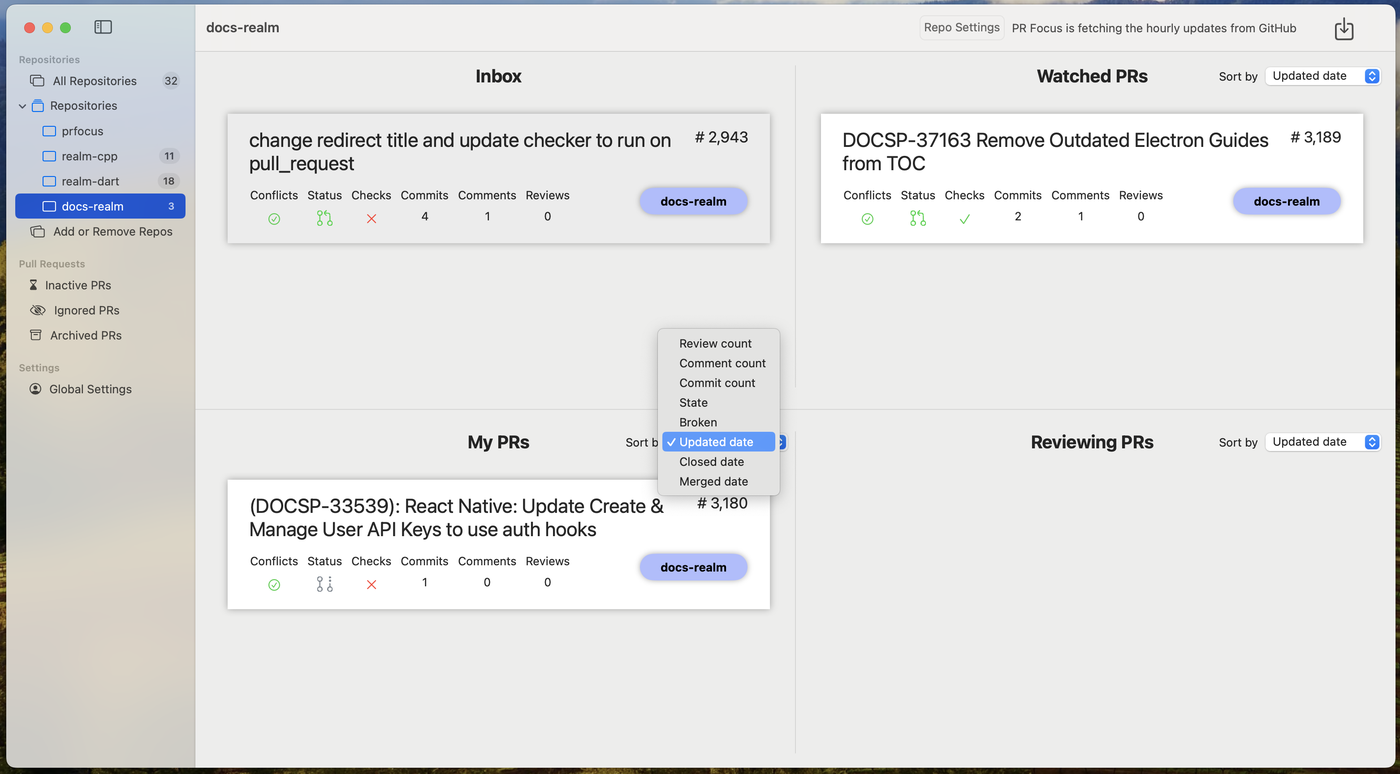
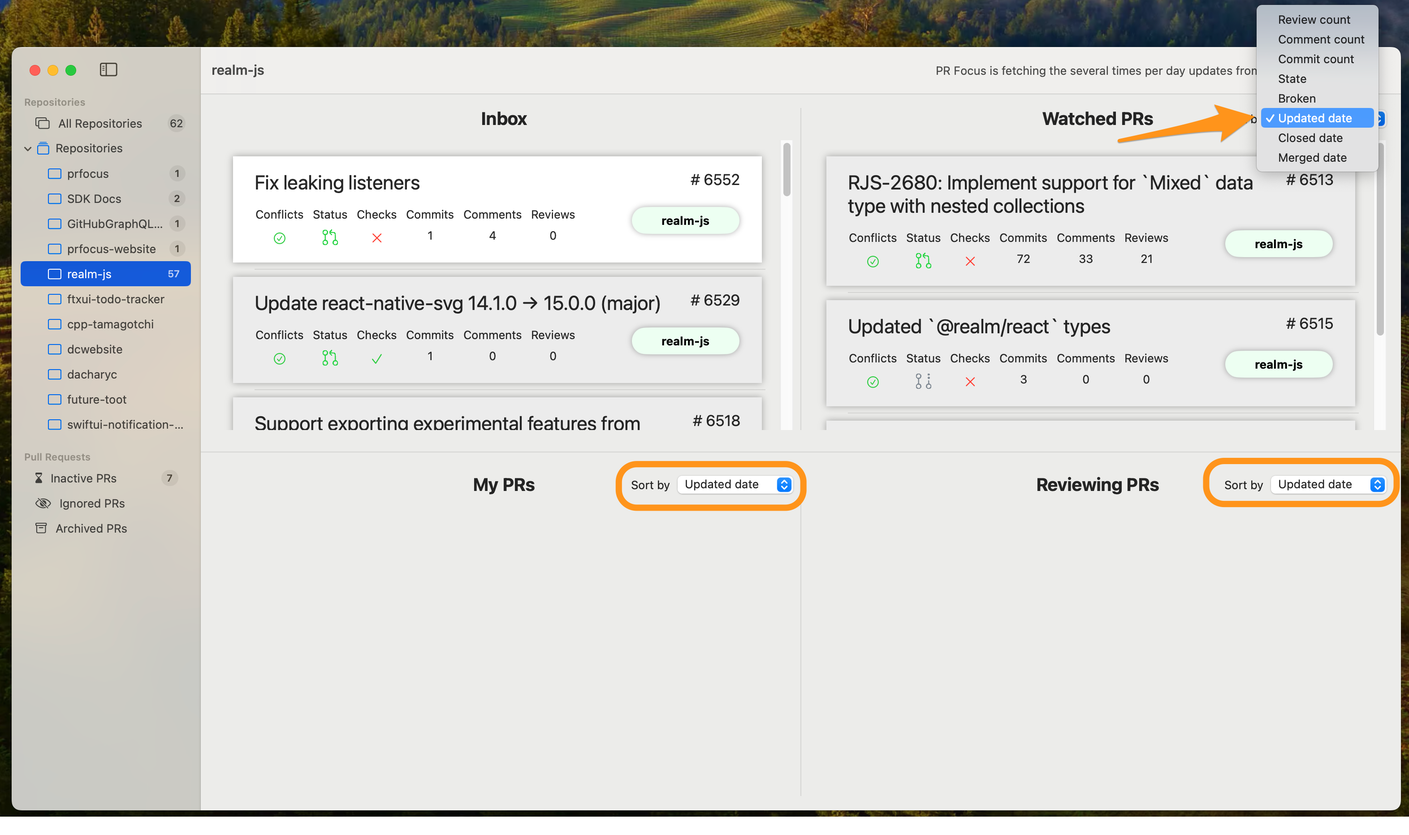
Update screenshots and add new menus for v0.5

diff --git a/content/en/docs/settings/_index.md b/content/en/docs/settings/_index.md
@@ -7,72 +7,23 @@ description: >
   Configure PR Focus Settings
 ---
 
-PR Focus has a handful of global settings you can configure from the **Global Settings**.
+PR Focus has a few global settings you can configure from the **Settings** menu option in the **PR Focus** menu.
 
-A future version of PR Focus will move these settings into **Preferences**.
+![Screenshot showing the "Settings" menu option in the **PR Focus** menu](/images/settings-menu-option.png)
+
+Selecting this option opens a window where you can customize global default settings for PR Focus for:
+
+- Checkboxes to show Reviewing or Assignee columns
+- An option to select how often to fetch updates from GitHub
+- Options to customize how long to wait before moving PRs from the Repository Dashboard to the Inactive or Archived dashboards
 
 ![Screenshot showing configurable settings in Global Settings](/images/global-settings.png)
 
-## API Key
-
-You can change the API Key that PR Focus uses to make API calls to GitHub.
-
-Press the **Edit API Key** button to provide a new API access token.
-
-For details about generating a GitHub access token, refer to the GitHub Authentication documentation page [Manage Personal Access Tokens](https://docs.github.com/en/authentication/keeping-your-account-and-data-secure/managing-your-personal-access-tokens).
-
-GitHub provides two types of access tokens:
-
-- A fine-grained access token (currently in beta) which provides more precise control over what the bearer can access
-- A classic access token with less precise control over what the bearer can access
-
-The required permissions for PR Focus to fetch pull request data vary depending on which type of access token you create. If you are not seeing pull requests after adding a repository to PR Focus, verify that your API access token has the appropriate permissions for the repository.
-
-### Fine-Grained Access Token Permissions
-
-GitHub's fine-grained access token provides the most precise control over what a user can access. As a result, PR Focus needs a number of permissions to get all the data it needs. PR Focus requires:
-
-Repository permissions
-- Actions: Read-only
-- Commit statuses: Read-only
-- Contents: Read-only
-- Deployments: Read-only
-- Issues: Read-only
-- Metadata: Read-only
-- Pull-Requests: Read-only
-- Workflows: Read and write (PR Focus does not need write permission, but GitHub does not provide read-only access for Workflows, so Read and write is the only option)
-
-Account permissions
-- Profile: Read and write (PR Focus does not need write permission, but GitHub does not provide read-only access for the user Profile, so Read and write is the only option)
-
-### Classic Access Token Permissions
-
-If you're using a Classic access token, it must have the following permissions:
-
-- `repo` read permissions for any repository you want to watch in PR Focus. 
-- `user` read permissions to get your username and avatar for use in the app.
-
-If your organization uses SAML single sign-on (SSO), and you use a classic personal access token, you must configure SSO for your personal access token after you create it. For more details, refer to the GitHub Authentication documentation page [Authorizing a personal access token for use with SAML single sign-on](https://docs.github.com/en/enterprise-cloud@latest/authentication/authenticating-with-saml-single-sign-on/authorizing-a-personal-access-token-for-use-with-saml-single-sign-on).
-
-#### How does PR Focus store and transmit the access token?
-
-When you enter the access token, PR Focus saves it securely to your [macOS Apple Keychain](https://support.apple.com/guide/mac-help/use-keychains-to-store-passwords-mchlf375f392/mac). PR Focus does not store your access token directly in the app code or otherwise transmit it except to make API calls to GitHub. If you ever want to remove your access token from Keychain, you can find it in the Keychain Access app. 
-
-Note that if you remove your access token from Keychain, PR Focus can no longer make API calls to GitHub. This means PR Focus will no longer be able to fetch PR updates or new PRs.
-
-#### Why does PR Focus need user read permissions?
-
-When you provide an access token during setup, if your access token has the appropriate permissions, PR Focus uses it to create a User Profile in the app for you. It reads your GitHub username and avatar and displays it in the **Global Settings** in the app. PR Focus uses this information to determine whether a PR was made by you, and whether you are a reviewer or assigned to a PR.
-
-If your access token doesn't have the appropriate permissions, PR Focus can't fetch your user profile and can't proceed with the initial user setup.
-
-PR Focus does not currently support having multiple GitHub user profiles. If this is something you need, please file a feature request.
-
-## Dashboard Views
+## Customize Lists in Dashboard Views
 
 You can customize the lists displayed in your Repository Dashboard and All Repositories Dashboard. Check or uncheck the `Show Assigned PRs` or `Show Reviewing PRs` checkboxes to show or hide those lists in your dashboards. 
 
-Currently, this is a global setting that defaults to showing the **Reviewing PRs** list and hiding the **Assigned PRs** list.
+This is a global setting that defaults to showing the **Reviewing PRs** list and hiding the **Assigned PRs** list.
 
 You can override these global settings on a per-repository basis. For example, if you watch many repositories in which you are a reviewer, but only one in which you may be an assignee, you may want to leave the global **Assigned PRs** setting unchecked, and specify it only for the repository where you need this information.
 
@@ -80,7 +31,7 @@ For more information about customizing settings for a repository, refer to [Repo
 
 ## Days until inactive/archive
 
-The `Days until inactive` and `Days until archive` settings are used to determine the time interval for when PR Focus should move PRs into the [Inactive PRs]({{< ref "docs/pull-requests/inactive-prs.md" >}}) or [Archived PRs]({{< ref "docs/pull-requests/archived-prs.md" >}}) dashboards.
+The `Days Until Inactive` and `Days Until Archive` settings are used to determine the time interval for when PR Focus should move PRs into the [Inactive PRs]({{< ref "docs/pull-requests/inactive-prs.md" >}}) or [Archived PRs]({{< ref "docs/pull-requests/archived-prs.md" >}}) dashboards.
 
 The global settings default to 30 days until inactive and 10 days until archive.
 

diff --git a/content/en/docs/api-key/_index.md b/content/en/docs/api-key/_index.md
@@ -1,0 +1,75 @@
+---
+title: "GitHub API Key"
+linkTitle: "GitHub API Key"
+weight: 6
+date: 2024-03-17
+description: >
+  Configure the GitHub API Key
+---
+
+PR Focus uses a GitHub API key to make calls to GitHub. You can view and update the GitHub API key from the **Manage API Key** menu option in the **PR Focus** menu.
+
+![Screenshot showing the "Settings" menu option in the **PR Focus** menu](/images/manage-api-key-menu-option.png)
+
+Selecting this option opens a window where you can view details about your GitHub API Key, or update it.
+
+![Screenshot showing the Manage API Key window](/images/manage-api-key.png)
+
+When your API key expires, PR Focus can no longer fetch updates. PR Focus warns you when the API key is close to expiring or if it has expired. You can view the expiration date of the current API key anytime from this window.
+
+## API Key
+
+You can change the API key that PR Focus uses to make API calls to GitHub.
+
+Press the **Edit API Key** button to provide a new API access token.
+
+For details about generating a GitHub access token, refer to the GitHub Authentication documentation page [Manage Personal Access Tokens](https://docs.github.com/en/authentication/keeping-your-account-and-data-secure/managing-your-personal-access-tokens).
+
+GitHub provides two types of access tokens:
+
+- A fine-grained access token (currently in beta) which provides more precise control over what the bearer can access
+- A classic access token with less precise control over what the bearer can access
+
+The required permissions for PR Focus to fetch pull request data vary depending on which type of access token you create. If you are not seeing pull requests after adding a repository to PR Focus, verify that your API access token has the appropriate permissions for the repository.
+
+### Fine-Grained Access Token Permissions
+
+GitHub's fine-grained access token provides the most precise control over what a user can access. As a result, PR Focus needs a number of permissions to get all the data it needs. PR Focus requires:
+
+Repository permissions
+- Actions: Read-only
+- Commit statuses: Read-only
+- Contents: Read-only
+- Deployments: Read-only
+- Issues: Read-only
+- Metadata: Read-only
+- Pull-Requests: Read-only
+- Workflows: Read and write (PR Focus does not need write permission, but GitHub does not provide read-only access for Workflows, so Read and write is the only option)
+
+Account permissions
+- Profile: Read and write (PR Focus does not need write permission, but GitHub does not provide read-only access for the user Profile, so Read and write is the only option)
+
+### Classic Access Token Permissions
+
+If you're using a Classic access token, it must have the following permissions:
+
+- `repo` read permissions for any repository you want to watch in PR Focus. 
+- `user` read permissions to get your username and avatar for use in the app.
+
+### Authorize for SSO
+
+If your organization uses SAML single sign-on (SSO), you must configure SSO for your personal access token after you create it. For more details, refer to the GitHub Authentication documentation page [Authorizing a personal access token for use with SAML single sign-on](https://docs.github.com/en/enterprise-cloud@latest/authentication/authenticating-with-saml-single-sign-on/authorizing-a-personal-access-token-for-use-with-saml-single-sign-on).
+
+## How does PR Focus store and transmit the access token?
+
+When you enter the access token, PR Focus saves it securely to your [macOS Apple Keychain](https://support.apple.com/guide/mac-help/use-keychains-to-store-passwords-mchlf375f392/mac). PR Focus does not store your access token directly in the app code or otherwise transmit it except to make API calls to GitHub. If you ever want to remove your access token from Keychain, you can find it in the Keychain Access app. 
+
+Note that if you remove your access token from Keychain, PR Focus can no longer make API calls to GitHub. This means PR Focus will no longer be able to fetch PR updates or new PRs.
+
+## Why does PR Focus need user read permissions?
+
+When you provide an access token during setup, if your access token has the appropriate permissions, PR Focus uses it to create a User Profile in the app for you. It reads your GitHub username and avatar and displays it in this window. PR Focus uses this information to determine whether a PR was made by you, and whether you are a reviewer or assigned to a PR.
+
+If your access token doesn't have the appropriate permissions, PR Focus can't fetch your user profile and can't proceed with the initial user setup.
+
+PR Focus does not currently support having multiple GitHub user profiles. If this is something you need, please file a feature request.

diff --git a/content/en/docs/repositories/manage-repository.md b/content/en/docs/repositories/manage-repository.md
@@ -6,11 +6,20 @@ description: >
   Update repository metadata in PR Focus, or stop watching the repository.
 ---
 
-While you're viewing a Repository Dashboard, you'll see a **Repo Settings** button in the toolbar.
+To update the settings for repositories you're watching, or to delete repositories from PR Focus, select the **Manage Repositories** option in the **Repositories** menu.
 
-![Screenshot showing the "Repo Settings" button](/images/repo-settings-button.png)
+![Screenshot showing the Manage Repositories menu option](/images/manage-repositories-menu-option.png)
 
-Press this button to customize the name or label color, or customize repository settings. This takes you to the Repository Details view.
+When you select this option, you open the **Manage Repositories** window. This window provides:
+
+- A list of all the repositories you're watching
+- Links to navigate directly to the repositories in GitHub
+- Buttons to update the settings for each repository
+- Buttons to delete repositories from PR Focus
+
+![Screenshot showing the Manage Repositories window with links to view repositories on GitHub, and buttons to update settings or delete the repositories](/images/manage-repositories.png)
+
+When you press the **Update Settings** option, you open the repository settings window for that repository.
 
 ![Screenshot showing the "Repository Details" view with metadata and customization options](/images/repo-details-view.png)
 
@@ -29,7 +38,7 @@ You can customize these repository details:
 - Provide a custom, human-friendly name for the repository, which replaces the default Repo Name in the PR Focus sidebar and on the repository label in the PR Summary
 - Select a repository label color to make it easier to distinguish the repository that a PR belongs to when viewing the **All Repositories** dashboard
 
-In this example, the `docs-realm` repository name has been replaced by the custom `Realm SDK docs` name, and a specific color has been chosen for the repository label.
+In the example below, the `realm-kotlin` repository name has been replaced by the custom `Realm Kotlin` name, and a specific color has been chosen for the repository label.
 
 ![Screenshot showing a PR Summary](/images/pr-summary.png)
 
@@ -49,3 +58,13 @@ In this view, you can also customize the settings for a repository. Settings you
 When you press the **Save Repo Settings** button, PR Focus saves all of the values in the "Customize Repository Settings" section of the view as custom repository settings. These settings apply only to this repository, and override the global default settings for this repo.
 
 If you would instead like to customize the global default settings, refer to [Settings]({{< ref "docs/settings/_index.md" >}})
+
+### GitHub Fetch Frequency
+
+The GitHub API rate-limits API access tokens to 5,000 calls per hour. 
+
+PR Focus makes a call to fetch the list of open PRs in a repository, and then makes indvidiual calls to get the details of each pull request it needs to update.
+
+If you are watching many repositories, or if the repositories you watch have many open PRs, the fetch job can be quite lengthy and can consume hundreds of API calls per run. For this reason, we recommend not fetching PR updates too often. The default fetch interval is hourly. The most frequent fetch interval that PR Focus provides for its automated jobs is "several times per hour." You can manually fetch updates at any time by pressing the **Fetch PRs** button, but if the rate limit has been exceeded, you won't see any updates to your pull requests in PR Focus.
+
+*Note: Currently, PR Focus has minimal handling for exceeding the rate limit. If you don't see updates to PRs you expect, check the PR Focus Logs to see if there are any error messages related to exceeding the rate limit. You may want to stagger the fetch interval across repositories if you encounter issues with the GitHub rate limit.*

diff --git a/content/en/docs/getting-started/_index.md b/content/en/docs/getting-started/_index.md
@@ -37,49 +37,11 @@ GitHub provides two types of access tokens:
 - A fine-grained access token (currently in beta) which provides more precise control over what the bearer can access
 - A classic access token with less precise control over what the bearer can access
 
-The required permissions for PR Focus to fetch pull request data vary depending on which type of access token you create. If you are not seeing pull requests after adding a repository to PR Focus, verify that your API access token has the appropriate permissions for the repository.
+The required permissions for PR Focus to fetch pull request data vary depending on which type of access token you create. 
 
-#### Fine-Grained Access Token Permissions
+For more details about the required permissions for each type of access token, refer to [GitHub API Key]({{< ref "docs/api-key/_index.md" >}})
 
-GitHub's fine-grained access token provides the most precise control over what a user can access. As a result, PR Focus needs a number of permissions to get all the data it needs. PR Focus requires:
-
-Repository permissions
-- Actions: Read-only
-- Commit statuses: Read-only
-- Contents: Read-only
-- Deployments: Read-only
-- Issues: Read-only
-- Metadata: Read-only
-- Pull-Requests: Read-only
-- Workflows: Read and write (PR Focus does not need write permission, but GitHub does not provide read-only access for Workflows, so Read and write is the only option)
-
-Account permissions
-- Profile: Read and write (PR Focus does not need write permission, but GitHub does not provide read-only access for the user Profile, so Read and write is the only option)
-
-#### Classic Access Token Permissions
-
-If you're using a Classic access token, it must have the following permissions:
-
-- `repo` read permissions for any repository you want to watch in PR Focus. 
-- `user` read permissions to get your username and avatar for use in the app.
-
-If your organization uses SAML single sign-on (SSO), and you use a classic personal access token, you must configure SSO for your personal access token after you create it. For more details, refer to the GitHub Authentication documentation page [Authorizing a personal access token for use with SAML single sign-on](https://docs.github.com/en/enterprise-cloud@latest/authentication/authenticating-with-saml-single-sign-on/authorizing-a-personal-access-token-for-use-with-saml-single-sign-on).
-
-#### How does PR Focus store and transmit the access token?
-
-When you enter the access token, PR Focus saves it securely to your [macOS Apple Keychain](https://support.apple.com/guide/mac-help/use-keychains-to-store-passwords-mchlf375f392/mac). PR Focus does not store your access token directly in the app code or otherwise transmit it except to make API calls to GitHub. If you ever want to remove your access token from Keychain, you can find it in the Keychain Access app. 
-
-Note that if you remove your access token from Keychain, PR Focus can no longer make API calls to GitHub. This means PR Focus will no longer be able to fetch PR updates or new PRs.
-
-#### Updating the access token
-
-You can update your access token later from the PR Focus **Global Settings**.
-
-#### Why does PR Focus need user read permissions?
-
-When you provide an access token during setup, if your access token has the appropriate permissions, PR Focus uses it to create a User Profile in the app for you. It reads your GitHub username and avatar and displays it in the **Global Settings** in the app. PR Focus uses this information to determine whether a PR was made by you, and whether you are a reviewer or assigned to a PR.
-
-If your access token doesn't have the appropriate permissions, PR Focus can't fetch your user profile and can't proceed with the initial user setup.
+You can update your access token later from the **PR Focus** menu with the **Manage API Key** option.
 
 ### Add a Repository
 

diff --git a/content/en/docs/repositories/view-repository.md b/content/en/docs/repositories/view-repository.md
@@ -13,7 +13,7 @@ When you select a repository in the sidebar, this opens the Repository Dashboard
 - View the details of a specific PR in PR Focus
 - Manage details about the repository, or stop watching it
 
-Or if you want to view a rollup of all the PRs you're watching in one view, you can select the **All Repositories** view, which aggregates the individual repository dashboards into an aggregate view.
+Or if you want to view a rollup of all the PRs you're watching in one view, you can select the **All Repositories** view, which displays all the pull requests from the individual repository dashboards in an aggregate view.
 
 ## The Repository Dashboard
 
@@ -24,7 +24,7 @@ The Repository Dashboard breaks down into different lists of pull requests. By d
 - My PRs: a list of your PRs in the repository
 - Reviewing PRs: a list of PRs where you're a reviewer
 
-Optionally, if your workflow involves assigning PRs, you can check the setting in the **User Profile** to *Show Assigned PRs*. This adds a fifth list of PRs that are assigned to you.
+Optionally, if your workflow involves assigning PRs, you can check the setting in the **Settings** or in the repository's **Update Settings** to *Show Assigned PRs*. This adds a fifth list of PRs that are assigned to you.
 
 ![Screenshot showing the Repository Dashboard](/images/repository-dashboard.png)
 
@@ -232,21 +232,3 @@ When you press the **Fetch PRs** button, this kicks off a few jobs:
   - If the PR is merged or closed in PR Focus and not listed as "open" on the remote repository, PR Focus does not fetch updates for it.
   - While fetching updates, PR Focus looks for any new commits, comments, reviews, or status checks, adds them to the PR details, and increments the PR summary counts.
   - If PR updates include adding you as an `assignee` or `requestedReviewer`, PR Focus moves the PR to the appropriate list in your dashboard.
-
-### GitHub API Calls
-
-The GitHub API rate-limits API access tokens to 5,000 calls per hour. 
-
-PR Focus makes a call to fetch the list of open PRs in a repository, and then makes indvidiual calls to get the details or each pull request it needs to update.
-
-If you are watching many repositories, or if the repositories you watch have many open PRs, the fetch job can be quite lengthy and can consume hundreds of API calls per run. For this reason, we recommend not fetching PR updates too often. The default fetch interval is hourly. The most frequent fetch interval that PR Focus provides for its automated jobs is "several times per hour." You can manually fetch updates at any time by pressing the **Fetch PRs** button, but if the rate limit has been exceeded, you won't see any updates to your pull requests in PR Focus.
-
-*Note: As of v0.2.x, PR Focus does not handle exceeding the rate limit with any sort of timeout or backoff. It also does not currently surface this failure to users. A future version of PR Focus will gracefully handle exceeding the rate limit, and will provide information to users about these possible errors.*
-
-## Manage Repository Details
-
-While you're viewing a Repository Dashboard, you'll see a **Repo Settings** button in the toolbar.
-
-![Screenshot showing the "Repo Settings" button](/images/repo-settings-button.png)
-
-Press this button to customize the name or label color, or customize repository settings. For more information, refer to [Repository Settings]({{< ref "docs/repositories/manage-repository.md" >}})

diff --git a/content/en/docs/repositories/add-repository.md b/content/en/docs/repositories/add-repository.md
@@ -6,41 +6,35 @@ description: >
   Add repositories to watch for new and updated PRs.
 ---
 
-You can add a repository to PR Focus using the **Add or Remove Repos** button in the sidebar.
+You can add a repository to PR Focus using the **Add Repositories** option in the **Repositories** menu.
 
-![Screenshot showing the "Add or Remove Repos" button](/images/add-remove-repos-button.png)
+![Screenshot showing the "Add Repositories" menu option](/images/add-repositories.png)
 
-This opens the pane where you can manage the list of repositories you're watching.
+This opens a window where you can add one or many repositories.
 
 ## Add One Repository
 
-Press the **Add Repo** button to add a new repository to PR Focus.
-
-This opens a pane asking for details about the repository you want to add. 
+By default, when you open the **Add Repositories** window, you see the option to add a single repository.
 
 Enter a GitHub URL for the repository you want to add, similar to `https://github.com/dacharyc/prfocus-website`.
 
 You can also select a color for the repository pill to help visually distinguish the repository in a list.
 
-![Screenshot showing the "Add Repository" pane, with a text field to enter a URL, a picker to select a color and a buttons to save or cancel](/images/add-repo-info.png)
+![Screenshot showing the "Add one" option in the "Add Repository" pane, with a text field to enter a URL, a picker to select a color and a save buttons](/images/add-repo-info.png)
 
 Press the **Add Repository** button to add the repo to the list of repositories you're watching.
 
-The repository appears in the sidebar. PR Focus automatically fetches the open pull requests in the repository from GitHub.
+The repository appears in the sidebar. PR Focus enqueues a job to automatically fetch the open pull requests in the repository from GitHub. Once any running jobs are complete, PR Focus gets the open PRs for the new repository.
 
-If you view **Global Settings**, you'll see the repository in your list of **Watched Repositories**. From here, you can click a link to view the repository in GitHub.
+If you view **Manage Repositories** option in the **Repositories** menu, you'll see the repository in your list of watched repositories. From here, you can click a link to view the repository in GitHub.
 
-![Screenshot showing the User Profile for 'dacharyc' with a 'prfocus-website' repo in a list of Watched Repos](/images/see-repo-in-watched-repos.png)
-
-If you view **Add or Remove Repos** again, you'll see the new repository in your list.
-
-![Screenshot showing the Add or Remove Repositories pane with a 'prfocus-website' repo, and a button to delete the repo.](/images/add-remove-repos-with-one-repo.png)
+![Screenshot showing the Manage Repositories window with links to view repositories on GitHub, and buttons to update settings or delete the repositories](/images/manage-repositories.png)
 
 ## Add Many Repositories
 
 If you want to quickly onboard a team to PR Focus, you can create a list of repository URLs to add to the app. 
 
-After you press the **Add Repo** button, you'll see the option to **Add many**. 
+ When you open the **Add Repositories** window, you'll see the option to **Add many**. 
 
 ![Screenshot showing the Add Repo sheet, with `Add Many` selected and a text box to enter many repository URLs](/images/add-many-repositories.png)
 

diff --git a/content/en/docs/repositories/delete-repository.md b/content/en/docs/repositories/delete-repository.md
@@ -6,12 +6,12 @@ description: >
   Delete a repository and all of its PRs from PR Focus.
 ---
 
-You can delete a repository from PR Focus by going to the **Add or Remove Repos** button in the sidebar.
+You can delete a repository from PR Focus the **Manage Repositories** option in the **Repositories** menu.
 
-![Screenshot showing the "Add or Remove Repos" button](/images/add-remove-repos-button.png)
+![Screenshot showing the Manage Repositories menu option](/images/manage-repositories-menu-option.png)
 
-This opens the pane where you can manage the list of repositories you're watching.
+This opens the **Manage Repositories** window.
 
 Find the row for the repository you want to delete, and press the **Delete repo** button. This deletes the repository and all of its pull requests from PR Focus.
 
-![Screenshot showing the Add or Remove Repositories pane with a 'prfocus-website' repo, and a button to delete the repo.](/images/add-remove-repos-delete-repo.png)
+![Screenshot showing the Manage Repositories window with an arrow pointing to the circled "Delete Repo" button for the 'dacharyc/GitHubGraphQLAPITester' repo.](/images/delete-repo-button.png)

diff --git a/content/en/docs/pull-requests/archived-prs.md b/content/en/docs/pull-requests/archived-prs.md
@@ -49,4 +49,8 @@ There is no way to manually move a PR out of the **Archived PRs** dashboard and 
 
 ## Deleting Archived PRs
 
-The early beta version of PR Focus does not provide a way to delete archived PRs. This functionality is planned for a later beta version of PR Focus.
+PR Focus v0.5 provides the ability to delete archived PRs. When you're viewing the **Archived PRs** dashboard, you can press the **Delete PRs** button to delete all PRs that are archived. 
+
+This button is disabled when a background job is running. If you're unable to press the **Delete PRs** button, wait for background jobs to finish and try again.
+
+![Screenshot showing the "Delete PRs" button in the Archived PRs dashboard](/images/delete-archived-prs.png)

diff --git a/content/en/docs/help/view-logs.md b/content/en/docs/help/view-logs.md
@@ -14,9 +14,9 @@ I'm doing ongoing work to add more log messages and make them clearer. Please le
 
 ## Open the Log View
 
-To view the logs, go to the `File` menu, select `New >`, and select `New PR Focus Logs Window`.
+To view the logs, go to the `Logs` menu, and select `View Logs`.
 
-![Screenshot showing File -> New -> New PR Focus Logs Window](/images/new-log-window.png)
+![Screenshot showing Logs -> View Logs menu option](/images/view-logs-menu-option.png)
 
 This opens the log view, which is a chronological list of activities in PR Focus:
 
